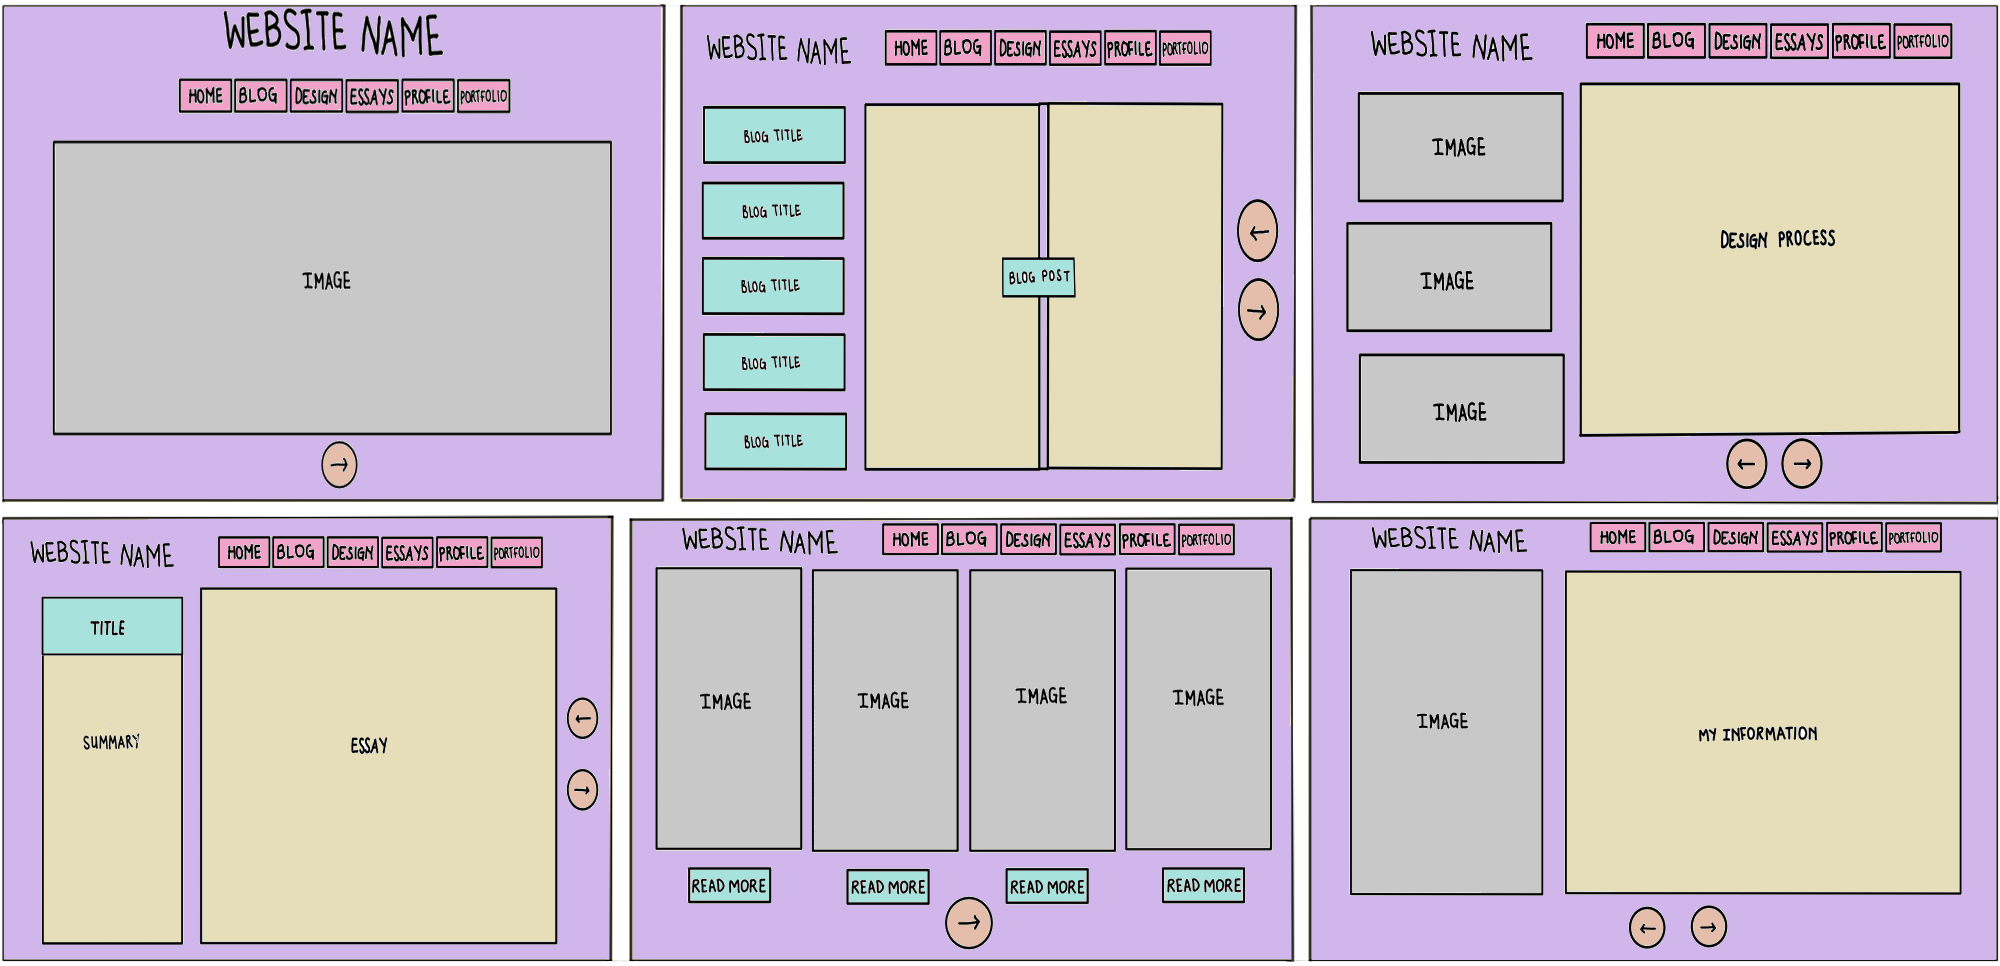
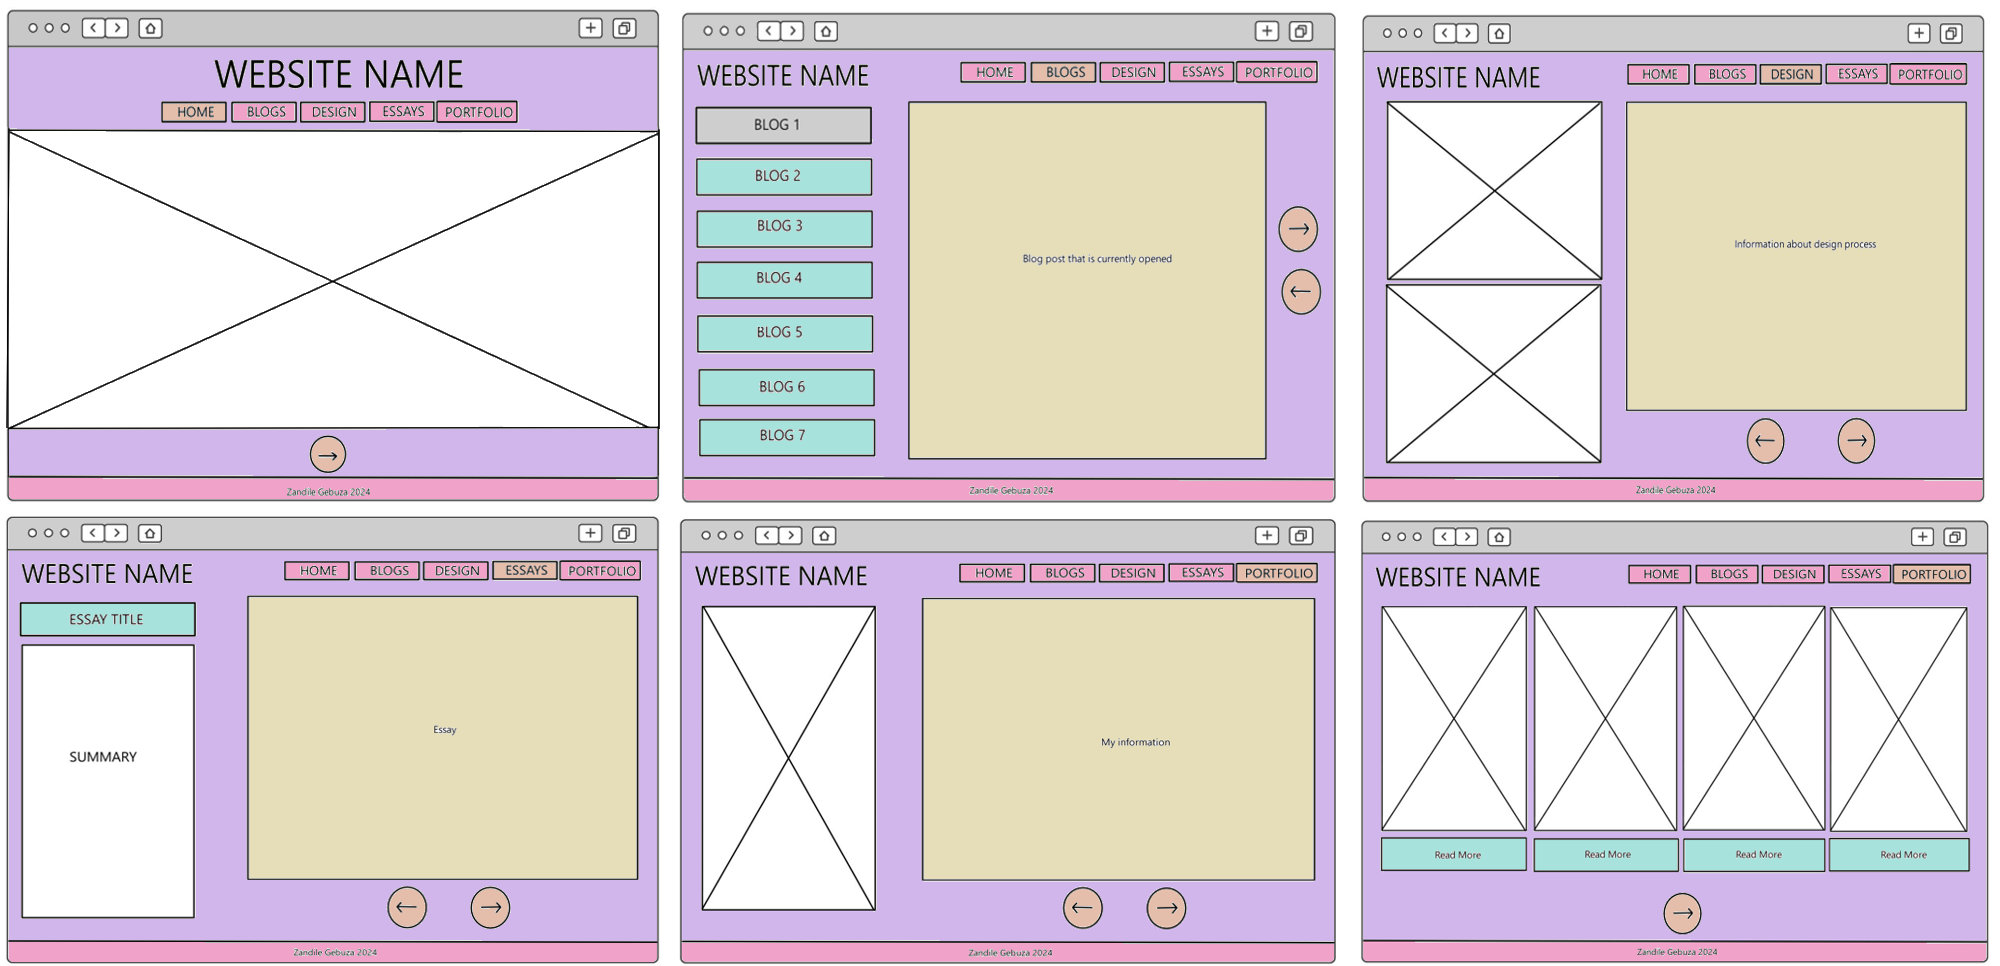
Edits Based on Feedback

diff --git a/design/wireframes.html b/design/wireframes.html
@@ -30,8 +30,9 @@ Zandile's Website
   </nav>
 
 <h1 class="pageName">WIREFRAMES</h1>
+<h2>Original Wireframes</h2>
 
-    <h2>Homepage</h2>
+    <h3>Homepage</h3>
     <img src="design-images/Home - Wireframe.png" width="900" height="700" alt="A wireframe image of my website's homepage" title="Homepage Wireframe">
     <img src="design-images/Home - Mobile Wireframe.png" width="350" height="700" alt="A wireframe image of a mobile verson of my website's homepage" title="Homepage Mobile Wireframe">
     <p>The homepage will have the website name at the top middle of the page. Underneath it will be a navigation menu that the user can click on to go to other pages. The rest of the
@@ -42,7 +43,7 @@ Zandile's Website
        desktop version. The navigation menu and the website name will be at the top of the page. Also, because in the desktop version the image is landscape, I would have to make sure 
        that the full image is visible and not scrollable with the portrait view of a mobile phone.</p>
     
-    <h2>Blog</h2>
+    <h3>Blog</h3>
     <img src="design-images/Blog - Wireframe.png" width="900" height="700" alt="A wireframe image of my website's blog page" title="Blog Page Wireframe">
     <img src="design-images/Blog - Mobile Wireframe.png" width="350" height="700" alt="A wireframe image of a mobile verson of my website's blog page" title="Blog Page Mobile Wireframe">
     <p>The blog page will have the website name at the top left corner and a navigation menu at the top right/middle. On the left side of the page there will be links to other blog posts. 
@@ -52,7 +53,7 @@ Zandile's Website
     <p>A mobile version of the blog page would have most of the same structure as the desktop version. Howvever, instead of the blog appearing as two open pages of a book, it will be one so the 
        user will be able to flip the page by swiping on their screen from right to left. The back/next buttons would also be moved to the bottom of the page to accomodate the blog.</p>
 
-    <h2>Design</h2>
+    <h3>Design</h3>
     <img src="design-images/Design - Wireframe.png" width="900" height="700" alt="A wireframe image of my website's design page" title="Design Page Wireframe">
     <img src="design-images/Design - Mobile Wireframe.png" width="350" height="700" alt="A wireframe image of a mobile verson of my website's design page" title="Design Page Mobile Wireframe">
     <p>This is the structure for all the design pages (wireframes, IxD, and the style guide). The design pages will have the website name at the top left corner and a navigation menu at the top 
@@ -62,7 +63,7 @@ Zandile's Website
     <p>A mobile version of the design pages would be structured a bit differently. The images would be placed at the top of the page after the menu then the paragraphs related to it would be
        placed below it. The buttons would stay at the bottom of the page.</p>
 
-    <h2>Essays</h2>
+    <h3>Essays</h3>
     <img src="design-images/Essays - Wireframe.png" width="900" height="700" alt="A wireframe image of my website's essay page" title="Essay Page Wireframe">
     <img src="design-images/Essays - Mobile Wireframe.png" width="350" height="700" alt="A wireframe image of a mobile verson of my website's essay page" title="Essay Page Mobile Wireframe">
     <p>The essay page will have the website name at the top left corner and a navigation menu at the top right/middle. On the left side of the page will be the title of the essay as well as a 
@@ -70,7 +71,7 @@ Zandile's Website
 
     <p>A mobile version of the essay pages will have the title and a summary at the top of the page. Then below it would be the essay and the buttons.</p>
 
-    <h2>Profile</h2>
+    <h3>Profile</h3>
     <img src="design-images/Profile - Wireframe.png" width="900" height="700" alt="A wireframe image of my website's profile page" title="Profile Page Wireframe">  
     <img src="design-images/Profile - Mobile Wireframe.png" width="350" height="700" alt="A wireframe image of a mobile verson of my website's profile page" title="Profile Page Mobile Wireframe"> 
     <p>The profile page will have the website name at the top left corner and a navigation menu at the top right/middle. On the left there will be a picture of myself and in the middle there will 
@@ -78,7 +79,7 @@ Zandile's Website
 
     <p>Like the design page, a mobile version of the profile page will have an image at the top and information at the bottom. The buttons will remain at the bottom of the page.</p>
 
-    <h2>Portfolio</h2>
+    <h3>Portfolio</h3>
     <img src="design-images/Portfolio - Wireframe.png" width="900" height="700" alt="A wireframe image of my website's portfolio page" title="Portfolio Page Wireframe">
     <img src="design-images/Portfolio - Mobile Wireframe.png" width="350" height="700" alt="A wireframe image of a mobile verson of my website's portfolio page" title="Portfolio Page Mobile Wireframe">
     <p>The portfolio page will have the website name at the top left corner and a navigation menu at the top right/middle. The large rectangles represent screenshots of my artworks, digital art, games, 
@@ -87,7 +88,18 @@ Zandile's Website
        will have a button that takes the user back to the Homepage.</p>
     
     <p>A mobile version of the Portfolio page will show one panel at a time. Each one will take up the whole space on the screen so to go to the next panel, the user will click on the next button.</p>
-</main>
+
+    <h2>Final Wireframes</h2>
+    <p>I kept the same structure as the originals, I just made these much neater and I used wireframe-like icons. The boxes with crosses represent images and the circles with arrows represent the next and 
+       back buttons. I also included how the website pages will look on a web browser (the URL bar at the top of the page) and the page footer.</p>
+    <img src="design-images/Final Homepage Wireframe.jpg" width="745" height="510" alt="A wireframe image of my website's homepage" title="Homepage Wireframe">
+    <img src="design-images/Final Blogs Wireframe.jpg" width="745" height="510" alt="A wireframe image of my website's blog page" title="Blog Page Wireframe">
+    <img src="design-images/Final Design Wireframe.jpg" width="745" height="510" alt="A wireframe image of my website's design page" title="Design Page Wireframe">
+    <img src="design-images/Final Essays Wireframe.jpg" width="745" height="510" alt="A wireframe image of my website's essay page" title="Essay Page Wireframe">
+    <img src="design-images/Final Profile Wireframe.jpg" width="745" height="510" alt="A wireframe image of my website's profile page" title="Profile Page Wireframe">
+    <img src="design-images/Final Portfolio Wireframe.jpg" width="745" height="510" alt="A wireframe image of my website's portfolio page" title="Portfolio Page Wireframe">
+
+   </main>
 
 <button id="wireframes1">Back</button>
 <button id="wireframes2">Next</button>

diff --git a/blogs/critical-reflection.html b/blogs/critical-reflection.html
@@ -24,16 +24,18 @@ Zandile's Website
 <h1 class="pageName">CRITICAL REFLECTION</h1>
 
 <article class="h-entry">
-    <h2 class="p-name"></h2>
-    <p>
-        by <a class="p-author h-card" href="../portfolio/profile.html" target="_blank">Zandile Gebuza</a> 
-        on <time class="dt-published" datetime="2024-04-"> May 2024</time>
+    <h2>Changes made from feedback</h2>
+    <p>I was told by our tutor that the links that open external websites should not reload the current page that the user is one. 
+       This is because the user will have to do "extra" work by having to go back to my website after viewing the one that I linked. 
+       I learnt that it is never a good thing to make the user work more than they have to, everything should be easy to use, and that 
+       includes the hyperlinks. After learning this, I Googled how this is done and I found that you can simply add 
+       <code>target="_blank"</code> inside the anchor tag and when clicked, the link will open on a new tab.</p>
+
+    <h2>Strengths and Weaknesses</h2>
+    <p>TBC
+    <!--What needs improvement? What have I done really well?-->
     </p>
-    
-    <h3></h3>
-    <p>
-    
-    </p>
+
 </article>
 <hr>
 </main>

diff --git a/design/style-guide.html b/design/style-guide.html
@@ -79,10 +79,12 @@ Zandile's Website
    </ol>
 
        <h2>Final Design Sketches</h2>
-       <img src="design-images/Final Sketches.png" width="1500" height="700" alt="An image of my final sketches" title="Final Sketches">
        <img src="design-images/Colour Palette 2.jpg" width="490" height="300" alt="An image of my chosen colour palette" title="Chosen Colour Palette">
        <p>This is colour palette that I want to use for the final design of my website. I also want to incoporate some of the colours from the previous one such as 
-          the cream colour, the light orange, and the red.</p>
+          the cream colour, the light orange, and the red. I chose these colours because purple is my favourite colour and the others from the palette complement it really well. Also, I know
+          that pastel purple is a calming colour which works well for the feeling I want to evoke.</p>
+       <img src="design-images/Final Sketches.png" width="1500" height="700" alt="An image of my final sketches" title="Final Sketches">
+
 </main>
 
 <button id="styleGuide1">Back</button>

diff --git a/scripts/other-elements.js b/scripts/other-elements.js
@@ -1,11 +1,7 @@
-//Pop-up Messages for each of the homepages
-function blogHome() {
-alert("This is a list of all my blog posts.");
-}
-
-function designHome() {
-alert("Click on the preferred image to open the each section of the Design Process.");
-}
+//Pop-up Messages
+window.addEventListener("DOMContentLoaded", (event) => {
+    alert("Click on the image to open the preferred section"); 
+});
 
 //Animate images when I hover over them
 const images = document.querySelectorAll(".image");
@@ -21,6 +17,7 @@ images.forEach(image => {
         this.style.transition = "transform 0.2s";
     });
 });
+
 
 
   

diff --git a/index.html b/index.html
@@ -11,7 +11,7 @@
     <script type="module"> import { initialiseMenu } from "./scripts/menu.js"
     initialiseMenu("Home")</script>
     <script type ="module" src="./scripts/buttons.js"></script>
-    <script src="./scripts/other-elements.js"></script>
+    <script src="./scripts/text-changes.js"></script>
 </head>
 
 <body>
@@ -23,7 +23,7 @@ Zandile's Website
 
 <main>
 <h1>HOMEPAGE</h1>
-<button id="Button">Click here</button>
+<h2 id="Message">Hi There!</h2>
 
 <img src="images/Placeholder Image.png" width="1500" height="600" alt="A blank placeholder image" title="Placeholder Image">
 </main>

diff --git a/design/index.html b/design/index.html
@@ -22,7 +22,6 @@ Zandile's Website
                 
 <main>
 <h1 class="pageName">DESIGN PROCESS</h1>
-<button onclick="designHome()">Read This First</button><br><br>
 
 <a href="wireframes.html"><img src="design-images/Placeholer Image.png" class="image" width="497" height="500" alt="A blank placeholder image" title="Wireframes Placeholder Image"></a>
 <a href="ixd.html"><img src="design-images/Placeholer Image 2.png" class="image" width="497" height="500" alt="A blank placeholder image" title="IxD Placeholder Image"></a>

diff --git a/blogs/index.html b/blogs/index.html
@@ -11,7 +11,6 @@
     <script type="module"> import { initialiseMenu } from "../scripts/menu.js" 
      initialiseMenu("Blog Posts")</script>
     <script type ="module" src="../scripts/buttons.js"></script>
-    <script src="../scripts/other-elements.js"></script>
 </head>
 <body>
 
@@ -23,9 +22,6 @@ Zandile's Website
                 
 <main>
 <h1 class="pageName">BLOG POSTS</h1>
-
-<button onclick="blogHome()">Click Here</button>
-<br><br>
 
 <details>
 	<summary>Week 1</summary>

diff --git a/scripts/buttons.js b/scripts/buttons.js
@@ -1,13 +1,3 @@
-//Button that shows Welcome Message
-document.addEventListener("DOMContentLoaded", function() {
-    const button = document.getElementById("Button");
-    const h1 = document.querySelector("h1");
-
-    button.addEventListener("click", function() {
-        h1.innerText = "WELCOME TO MY WEBSITE!";
-    });
-});
-
 //Next and Back buttons
 //Homepage
 document.addEventListener("DOMContentLoaded", function() {

diff --git a/scripts/text-changes.js b/scripts/text-changes.js
@@ -1,0 +1,7 @@
+//Welcome Message
+setTimeout(() => {
+    const heading = document.getElementById("Message");
+    if (heading) {
+        heading.textContent = "Welcome To My Website!";
+    }
+}, 1000);
